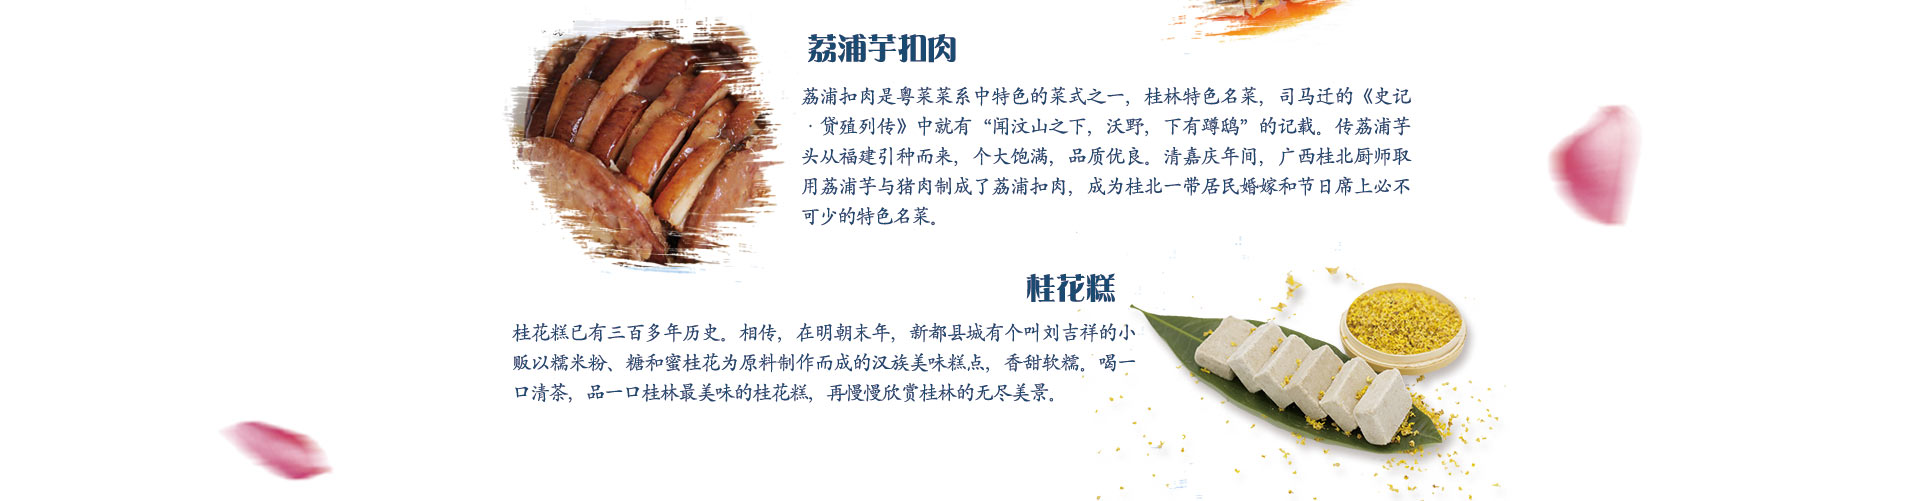
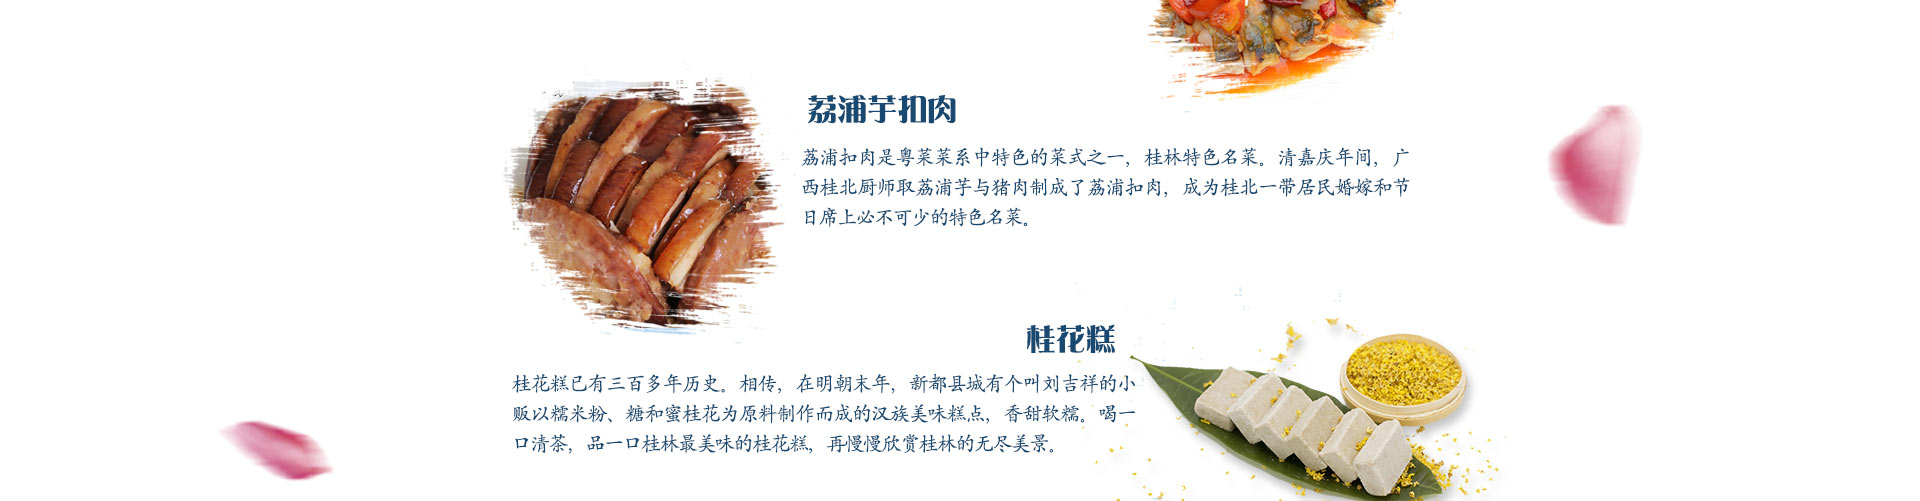
PCWeb

diff --git a/PCweb/20170330/css/main.css b/PCweb/20170330/css/main.css
@@ -56,7 +56,7 @@
 .products-box{
 	position: relative;
 	height: auto;
-	padding-top: 181px;
+	padding-top: 200px;
 }
 
 .column{
@@ -69,7 +69,7 @@
 .column-nav{
 	position: relative;
 	height: auto;
-	margin-bottom: 20px;
+	margin-bottom: 40px;
 }
 
 .column-list{
@@ -136,7 +136,7 @@
 .view-box{
 	position: relative;
 	height: auto;
-	padding-top: 174px;
+	padding-top: 215px;
 	margin: 0 auto;
 	width: 900px;
 }
